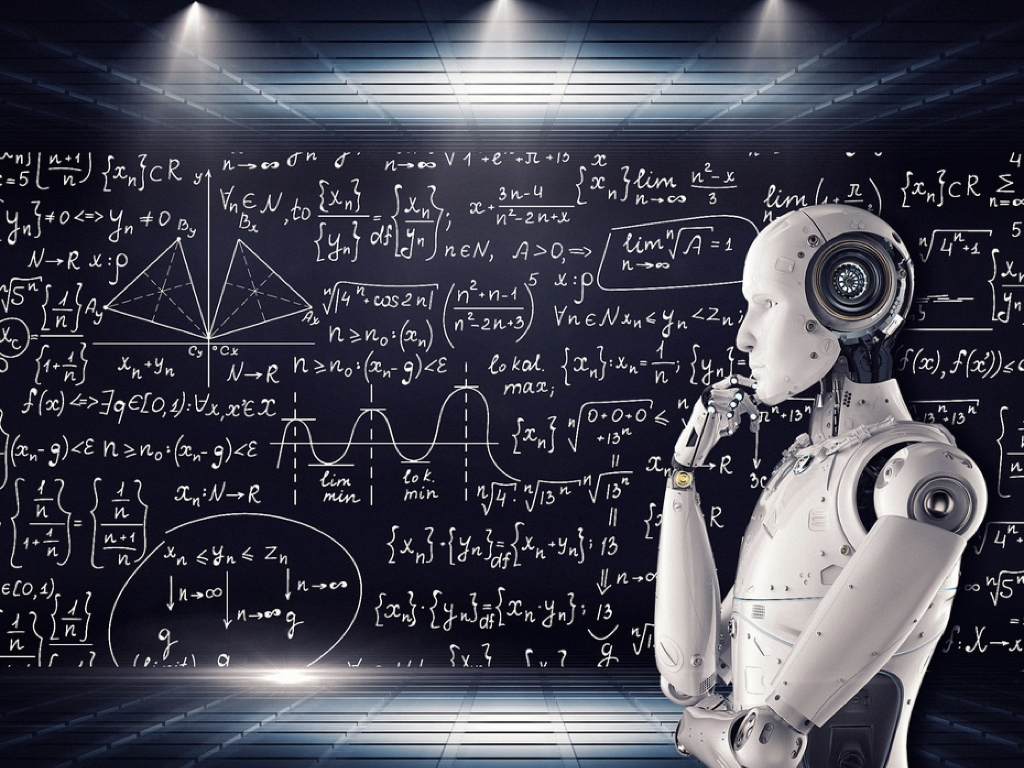
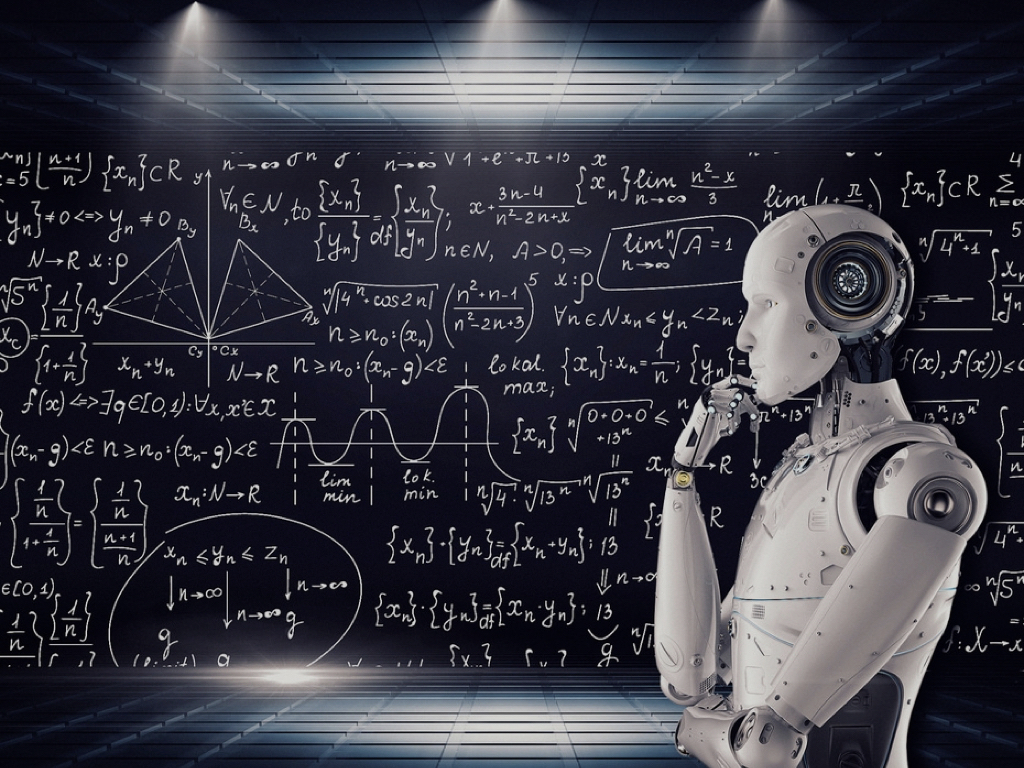
add workshops

diff --git a/_site/index.html b/_site/index.html
@@ -431,7 +431,7 @@ We develop and use machine learning techniques to discover patterns in data stre
 		<article>
 			<header>
 				
-				<h1>AI4Science Lab</h1>
+				<h1></h1>
 			</header>
 
 			
@@ -800,8 +800,8 @@ We develop and use machine learning techniques to discover patterns in data stre
 
 
 <script>
-    $("#masthead").backstretch("https://ai4science-amsterdam.github.io/images/banner.jpg", {fade: 100});
-    $("#masthead-with-text").backstretch("https://ai4science-amsterdam.github.io/images/banner.jpg", {fade: 100});
+    $("#masthead").backstretch("https://ai4science-amsterdam.github.io/images/banner_dim.jpg", {fade: 700});
+    $("#masthead-with-text").backstretch("https://ai4science-amsterdam.github.io/images/banner_dim.jpg", {fade: 700});
 </script>
 
 

diff --git a/pages/pages-root-folder/index.md b/pages/pages-root-folder/index.md
@@ -5,9 +5,8 @@
 # this work, you have to use › layout: frontpage
 #
 layout: page-fullwidth
-title: "AI4Science Lab"
 header: 
-    image_fullwidth: banner.jpg
+    image_fullwidth: banner_dim.jpg
     title: <span style="text-transform:none; font-family:inherit; font-size:1.2em;">AI4Science</span> <br>  <span style="text-transform:none; font-family:FontAwesome,Gill Sans; font-size:0.5em;">Artificial Intelligence for Scientific Discovery</span>
 
 permalink: /index.html
